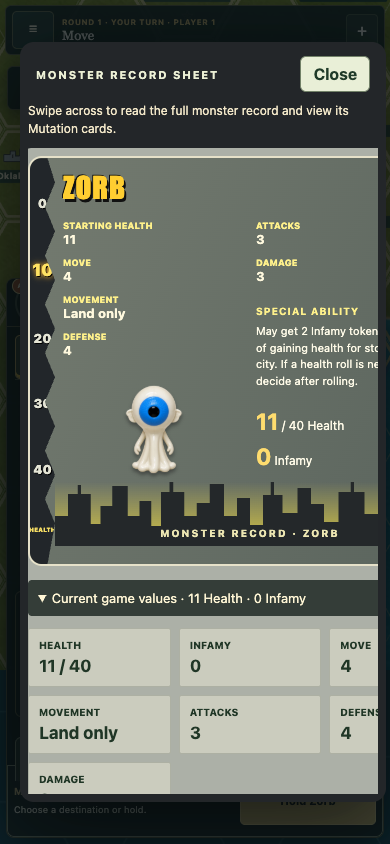
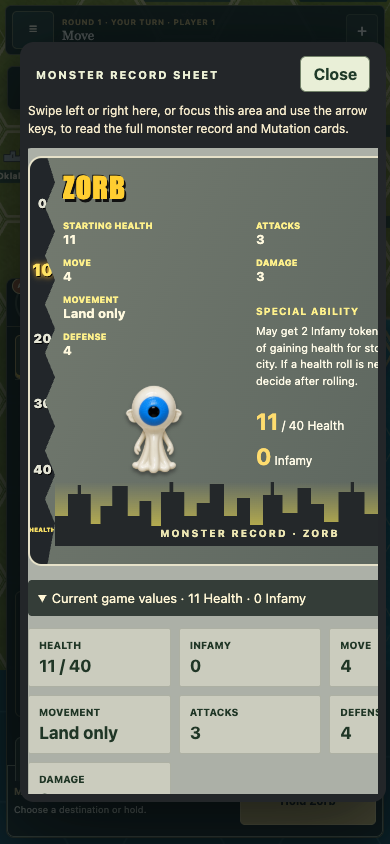
Fix mobile Monster Sheet scrolling and stat typing

Changed region(s): [[0.0923, 0.1232, 0.9538, 0.1848]]

diff --git a/apps/web/src/components/PlayerStatusControls.tsx b/apps/web/src/components/PlayerStatusControls.tsx
@@ -30,8 +30,12 @@ function MonsterSheet({ monster, game, playerIndex, canAct, runCommand, onClose 
       }
     }}>
       <div className="military-hand-toolbar"><span className="label">MONSTER RECORD SHEET</span><button className="military-sheet-close" onClick={onClose}>Close</button></div>
-      <p className="monster-sheet-scroll-hint">Swipe across to read the full monster record and view its Mutation cards.</p>
-      <div className="monster-sheet-workspace">
+      <p id="monster-sheet-scroll-hint" className="monster-sheet-scroll-hint">Swipe left or right here, or focus this area and use the arrow keys, to read the full monster record and Mutation cards.</p>
+      <div className="monster-sheet-workspace" role="region" aria-label="Monster record and Mutation cards" aria-describedby="monster-sheet-scroll-hint" tabIndex={0} onKeyDown={(event) => {
+        if (event.key !== "ArrowLeft" && event.key !== "ArrowRight") return;
+        event.preventDefault();
+        event.currentTarget.scrollLeft += (event.key === "ArrowRight" ? 1 : -1) * Math.max(80, event.currentTarget.clientWidth * 0.8);
+      }}>
       <div className="military-sheet physical-monster-sheet">
         <div className="monster-physical-record" role="group" aria-label={`${monster.name} physical-style record`}>
           <div className="record-health-rail tens" aria-label="Health tens">{[0, 10, 20, 30, 40].map((value) => <span key={value} className={Math.floor(monster.health / 10) * 10 === value ? "health-marker" : ""}>{value}</span>)}<small>HEALTH</small></div>

diff --git a/apps/web/src/physical-sheets.css b/apps/web/src/physical-sheets.css
@@ -132,7 +132,7 @@
 .record-reserve { margin-bottom:26px; }
 .monster-reference-sheet { width:min(1320px,calc(100vw - 24px)); }
 .monster-sheet-workspace { display:grid; grid-template-columns:minmax(460px,1.45fr) minmax(300px,1fr); gap:20px; align-items:start; overflow:auto; min-height:0; padding-bottom:10px; }
-.monster-sheet-workspace > .physical-monster-sheet { max-height:none; overflow:visible; margin:0; }
+.monster-sheet-workspace > .physical-monster-sheet { max-height:none; overflow:visible; margin:0; touch-action:auto; }
 .monster-sheet-workspace > .sheet-held-cards { margin:0; border:0; padding:12px 0; min-width:0; }
 .monster-sheet-workspace > .sheet-held-cards > h3 { color:#fff1cd; margin:0 0 8px; }
 .sheet-card-art { position:relative; width:100%; aspect-ratio:1.45; overflow:hidden; border-radius:6px; background:#292e24; }

diff --git a/apps/api/src/player-stats.ts b/apps/api/src/player-stats.ts
@@ -1,4 +1,5 @@
 import type { GameState } from "@abominations/game-engine";
+import type { PlayerMatchStat } from "../generated/prisma/client.js";
 
 export interface MatchCounters {
   stompedTiles: number;
@@ -73,7 +74,11 @@ export function completedMatchRows(roomId: string, state: GameState, counters: r
   });
 }
 
-export function sumPlayerStats(rows: readonly Record<string, any>[], username: string) {
+type PlayerStatSummaryRow = Pick<PlayerMatchStat,
+  "outcome" | "stompedTiles" | "damageTaken" | "healthGained" | "luckTotal" | "luckRolls" | "monsterName" | "branch"
+>;
+
+export function sumPlayerStats(rows: readonly PlayerStatSummaryRow[], username: string) {
   const stats = {
     username,
     gamesPlayed: rows.length,

diff --git a/docs/maintainability-audit.md b/docs/maintainability-audit.md
@@ -9,6 +9,7 @@ This is a prioritized source-level findings ledger for the staged overhaul. It r
 | P2 | `RoomEvent` in `packages/shared/src/index.ts` has no exhaustive event catalogue, and its payload has no event-specific schema. `apps/api/src/store.ts` and `apps/api/src/prisma-store.ts` construct values from engine events and separate `setup.updated` events. Prisma stores `type String` plus arbitrary JSON. | Event-specific producer payloads and their JSON serializability are not checked at the shared contract boundary. Browser playback and the log panel consume `GameState.eventLog` (`GameLogEntry.action` / `detail`), not `RoomView.events`; unknown log actions remain visible as history and are ignored by playback filters. | **Partly closed — names, JSON roots, and projection.** `GameEventResult.eventType` and `CommandReceipt.eventType` use a closed engine union; all current Memory and Prisma API event writes pass through `knownRoomEventType`. Persisted `GameLogEntry.action` and `RoomEvent.type` remain open for historic/unknown names. `RoomEvent.payload` now uses recursive `JsonValue`; typed Prisma rows and both store projections preserve null, scalar, array, and object roots while redacting private card identifiers. Memory and Prisma-adapter tests verify legacy unknown names, payload order/shape, retained fields, and nested redaction. The isolated compiled-API PGlite acceptance inserts five actual JSONB roots and verifies unknown event names, ordering, and recursive redaction through the authenticated room-state route. Event-specific payload schemas remain open; no DB or wire-format change was made. |
 | P2 | `apps/api/src/prisma-store.ts` initially used `any` at transaction, fetched-row, JSON, and commit-helper boundaries; the first pass included `rotateSession`, `commitCommand`, and `ensureActiveSetupMaterialized`. `apps/api/src/accounts.ts` previously exposed `any` for its client, transaction callbacks, users, and query results. | Database schema/query changes can bypass type checking at persistence and identity boundaries. This audit found type escapes, not a demonstrated production failure. | **Partly closed — API owner.** The leaderboard route narrows the query value to the shared category union and has route integration coverage for all accepted values plus an unknown value. Eight previously untyped `PrismaRoomStore` transaction callbacks were converted to generated `Prisma.TransactionClient`; `commitCommand` and `ensureActiveSetupMaterialized` now accept generated `Prisma.GameRoomModel` inputs, `commitCommand` accepts a generated `Prisma.ParticipantModel`, and its terminal participant callbacks infer generated relation types. The integrated root `npm run verify` gate passed with 240 engine and 180 API tests and both typechecks. `AccountService` now depends only on a `Pick<PrismaClient, ...>` of its required delegates and transaction method, keeping the injected-client seam; transaction callbacks and account/token inputs/results use generated Prisma types, while list-game enums map exhaustively to the public unions and result JSON is inspected as `Prisma.JsonValue`. The account test covers the existing wire shape, win/tie object projection, and tie projection for null, primitive, array, and object summaries without a non-null `winnerPlayer`; focused API typecheck/account tests pass. The latest narrow creation-path change maps the five known initial player-stat counters into Prisma-compatible object literals, removing that creation write's `any` cast; the contract test verifies both counter rows, and focused API typecheck plus 60 Prisma-store tests passed at that point. The `lockParticipantSnapshot` and `lockLiveSessionSnapshot` helpers now accept `Prisma.ParticipantWhereInput & { id: string }` rather than `any`; API typecheck and all 180 API tests pass after this type-only change, including session-expiry and stale-snapshot regressions. The `accounts.test.ts` test double itself remains `any`-backed, so it is not a compile-time conformance check for a structurally typed adapter. Commit-time state, player-stats, event-payload, and result-summary JSON casts remain unchecked and need an explicit serialization/legacy-event round-trip design before removal. Other fetched-row/JSON casts and account boundaries elsewhere in the API remain open; keep legacy JSON decoding and snapshot compatibility explicit. Maintainability audit remains a source-level findings ledger: other rows still carry pending work and production persistence boundaries are not cleared by the integrated verification gate. |
 | P2 | `useResearchCard` in `packages/game-engine/src/index.ts` previously received a long sequence of positional optional parameters for battle, mutation, choice, destination, target, research-card, and player context. | Call sites could silently place a valid value in the wrong slot, and adding another choice expanded every call signature. No wrong-argument call was reproduced. | **Closed — game-engine owner.** Internal calls now use a `cardId`-discriminated request union with only the fields relevant to each card. `researchUseRequestFromCommand` adapts the unchanged public `use-research` command and leaves its event payload construction intact; Research effect outcomes remain covered by the existing focused engine tests, with an added event-metadata compatibility test. The focused Research request compatibility tests and standalone strict TypeScript check pass, and the current integrated gate passes all 235 game-engine tests. |
+| P2 | `sumPlayerStats` in `apps/api/src/player-stats.ts` accepted `readonly Record<string, any>[]`, allowing misspelled or absent database fields to bypass type checking during profile and leaderboard aggregation. | Generated Prisma result rows were widened to arbitrary key/value objects at the aggregation boundary. | **Closed — API owner.** The helper now accepts only a `Pick<PlayerMatchStat, ...>` containing its eight consumed fields. This changes compile-time checking only; query shapes, results, and the public profile/leaderboard projection are unchanged. API typecheck and focused plus full API tests are the acceptance checks. |
 | P2 | `apps/api/src/server.ts` is a 678-line transport and orchestration module: it owns HTTP routing, origin/rate checks, WebSocket lease setup, command rejection, socket projection/broadcast, metrics/error reporting, bot-worker scheduling, and shutdown. | Changes at these boundaries share one module, which raises review cost and makes route-to-store-to-projection behavior harder to inspect as one contract. The source pass did not establish a defect from module size alone. | **Path map documented; extraction open — API owner.** `development.md` and `api-reference.md` now map HTTP origin/rate/session checks, store and engine calls, WebSocket lease/action/broadcast paths, and bot takeover timing. Next identify one cohesive extraction seam and verify it with route/store and lease tests. Preserve memory/Prisma parity and session/persisted-state compatibility. |
 | P2 | `apps/web/src/main.tsx` is 1,991 lines as of the 2026-09-28 refresh and coordinates Home/setup/game screens, local and online state, command submission, room recovery, dialogs, and turn UI. | Unrelated UI and transport changes share a large stateful entry point, making ownership and regression scope harder to see. This is a module-boundary candidate, not a measured performance problem or reproduced behavior defect. | **Ownership inventory recorded; extraction open — web owner.** The state/effect map below records the main responsibilities and seams. Extract one cohesive route or transport concern at a time with browser-flow parity; avoid a broad component rewrite. |
 | P2 | `packages/game-engine/src/index.ts` is 3,664 lines as of the 2026-09-28 refresh and contains canonical state, command application, several phase resolvers, projection/migration paths, and rule helpers, while some definitions already live in `setup.ts`, `bots.ts`, `cards.ts`, and related modules. | The size makes rule ownership and change impact harder to review, especially while physical-source decisions remain unresolved. This is a navigation and boundary concern; size alone does not establish a defect. | **Function ownership mapped; extraction deferred.** The 2026-09-28 source pass records the main exported/internal function families and highlights the command dispatcher, fight continuation, pending-decision serialization, event append normalization, and persisted versions below. Keep source-sensitive behavior and migration boundaries explicit; do not reorganize code in a way that implies physical-rule approval. |

diff --git a/docs/ui-surface-audit.md b/docs/ui-surface-audit.md
@@ -63,7 +63,7 @@ This inventory names the control families found in the current TSX source, inclu
 | RECORD-LEAF-01 | Record Monster/Military/Map tabs — `PlayerStatusControls.tsx` | Three tab panels; roving focus and arrow-key movement | Focused browser smoke covers record tabs | Check all panels, tab order/selection, keyboard arrows, content sizing, touch, and mobile host/portal. |
 | RECORD-LEAF-02 | Mobile record toggle — `PlayerStatusControls.tsx`, `main.tsx` | Closed/open; shared command dock and record slot | Pointer browser flow at 390×844 and 320×740 expands the command sheet, switches Monster/Military/Map tabs, checks the minimap and command-sheet bounds, then collapses. | Check keyboard focus order, safe-area overlap, touch activation, and coexistence with an open military sheet at phone and tablet sizes. |
 | RECORD-LEAF-03 | Opponent portrait rail and public-status inspector — `PlayerStatusControls.tsx` | Select/deselect player; own/opponent status; close | Render/source evidence only | Browser-check screen-reader names, close, current player changes, scroll, and compact viewport behavior. |
-| RECORD-LEAF-04 | Monster record dialog and “Current game values” disclosure — `PlayerStatusControls.tsx` | Modal open/close, focus trap/restore; printed/current stats; Mutation cards | `browser:home:verify` follows a real solo setup into Move, expands the phone player record, and opens the Monster Sheet at 390×844. It checks accessible name/`aria-modal`, initial Close focus, Tab containment at both ends, dialog bounds and no page overflow, Current game values parity with the live record projection, the empty Mutation hand, and Escape/Close/backdrop dismissal with focus returned to the opener. Phase, legal destinations, and event summaries are unchanged. The phone scroll hint now explains that horizontal scrolling reveals the full record as well as Mutation cards. Evidence: [`home-entry-and-first-match-guide-2026-09-29.json`](../output/ui-review/home-entry-and-first-match-guide-2026-09-29.json) and [`Monster Sheet screenshot`](../output/ui-review/monster-sheet-mobile-move-390x844-2026-09-29.png). | Add a seeded card on the full route to verify intended horizontal card access, then complete manual screen-reader/zoom review and tablet coverage. |
+| RECORD-LEAF-04 | Monster record dialog and “Current game values” disclosure — `PlayerStatusControls.tsx` | Modal open/close, focus trap/restore; printed/current stats; Mutation cards | `browser:home:verify` follows the solo Home flow into Move, expands the phone player record, and opens the Monster Sheet at 390×844. It checks accessible name/`aria-modal`, initial Close focus, Tab containment at both ends, dialog bounds and no page overflow, Current game values parity with the live record projection, and Escape/Close/backdrop dismissal with focus returned to the opener. A named, focusable scroll region and explicit left/right touch and arrow-key hint address the previous orientation/discoverability gap. Touch emulation swipes from the visible record into the Mutation area; two ArrowRight presses on the focused region reach the Mutation area by keyboard. Only phase, legal destinations, and event summaries are compared before/after, so this is not a complete authoritative-state equality check. Evidence: [`home-entry-and-first-match-guide-2026-09-29.json`](../output/ui-review/home-entry-and-first-match-guide-2026-09-29.json) and [`Monster Sheet screenshot`](../output/ui-review/monster-sheet-mobile-move-390x844-2026-09-29.png). | Add a held Mutation card on the full route to verify intended card access, then complete manual screen-reader/zoom review and tablet coverage. |
 | RECORD-LEAF-05 | Mutation preview strip/popover — `MutationStrip.tsx` | Preview open/closed; Escape and explicit close; variable card count | Component/render coverage | Browser-check pointer/keyboard activation, viewport edge placement, Escape focus, and long labels. |
 | RECORD-LEAF-06 | Player reference-sheet peeks — `PlayerStatusControls.tsx` | Monster/military/other owned-sheet launch | Render coverage of selected panels | Browser-check each sheet trigger, role/ownership, focus restore, and mobile layout. |
 | DEPLOY-LEAF-01 | Military drawer: Unit deployment / Military research navigation — `MilitarySheet.tsx` | Units/research, deploy/no legal choice/deck exhausted | Tray browser and focused render checks | Check both sections, switching while state changes, keyboard/touch, long content, and close/cancel. |
